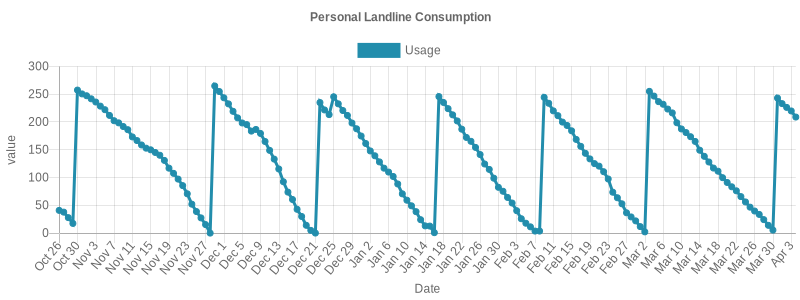
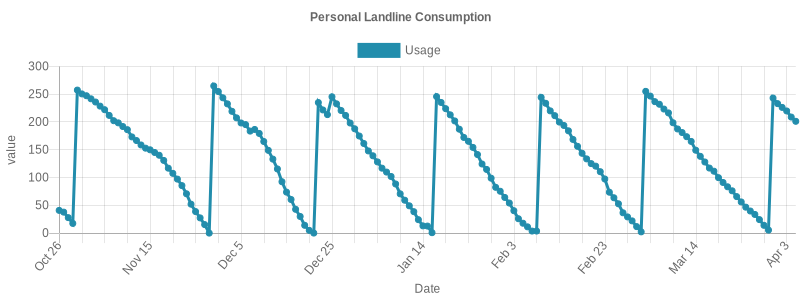
update logs

Changed region(s): [[0.0625, 0.24, 1.0, 0.93], [0.0938, 0.24, 0.125, 0.3], [0.0938, 0.33, 0.125, 0.36]]

diff --git a/quota-logs/README.md b/quota-logs/README.md
@@ -160,3 +160,4 @@
 ## Tue Apr 02 2024 00:35:29 GMT+0200|226.22/250
 ## Wed Apr 03 2024 00:35:17 GMT+0200|219.83/250
 ## Thu Apr 04 2024 00:34:48 GMT+0200|208.83/250
+## Fri Apr 05 2024 00:35:24 GMT+0200|201.2/250
